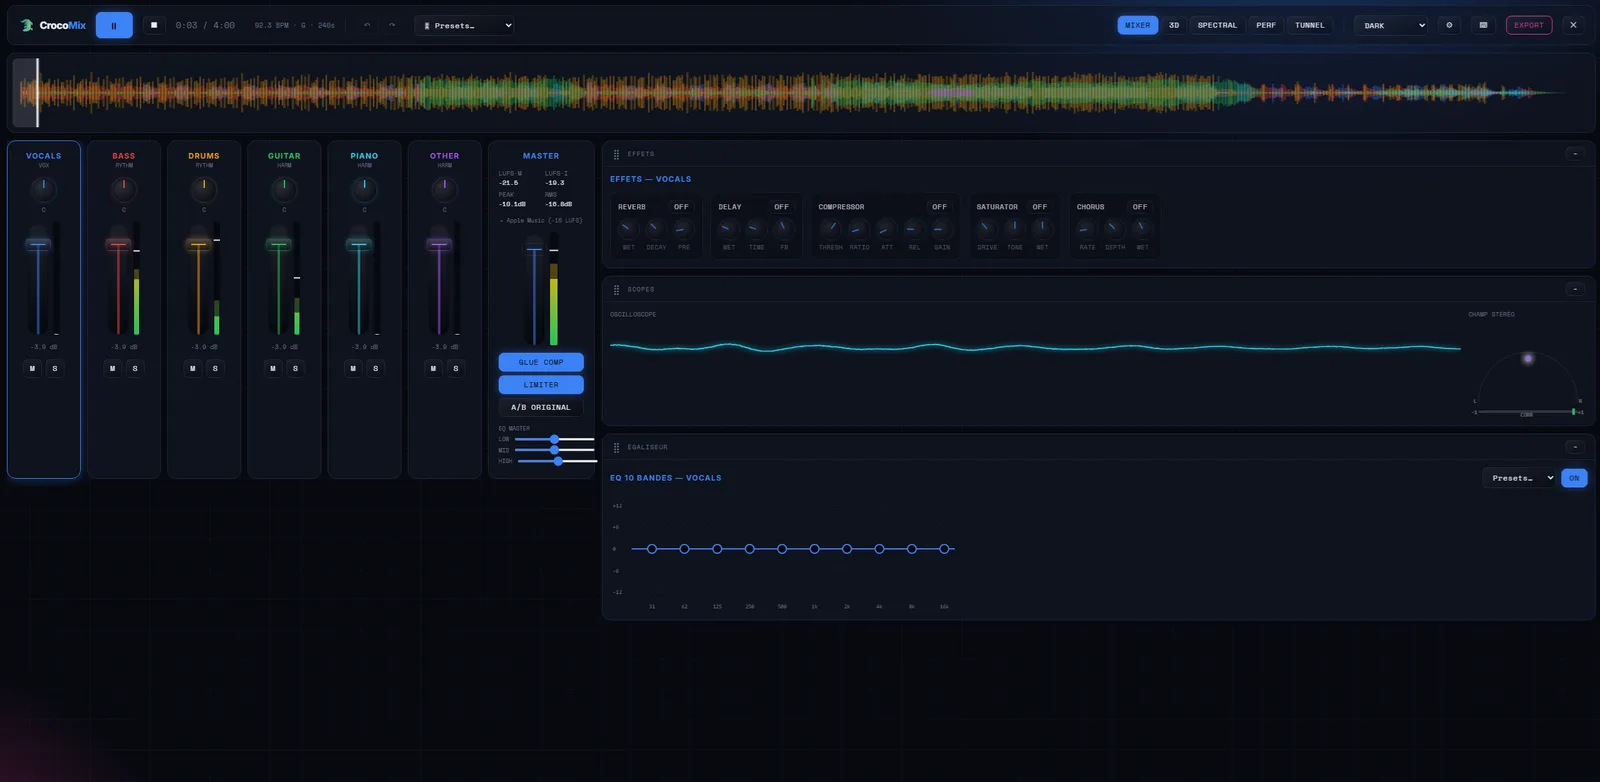
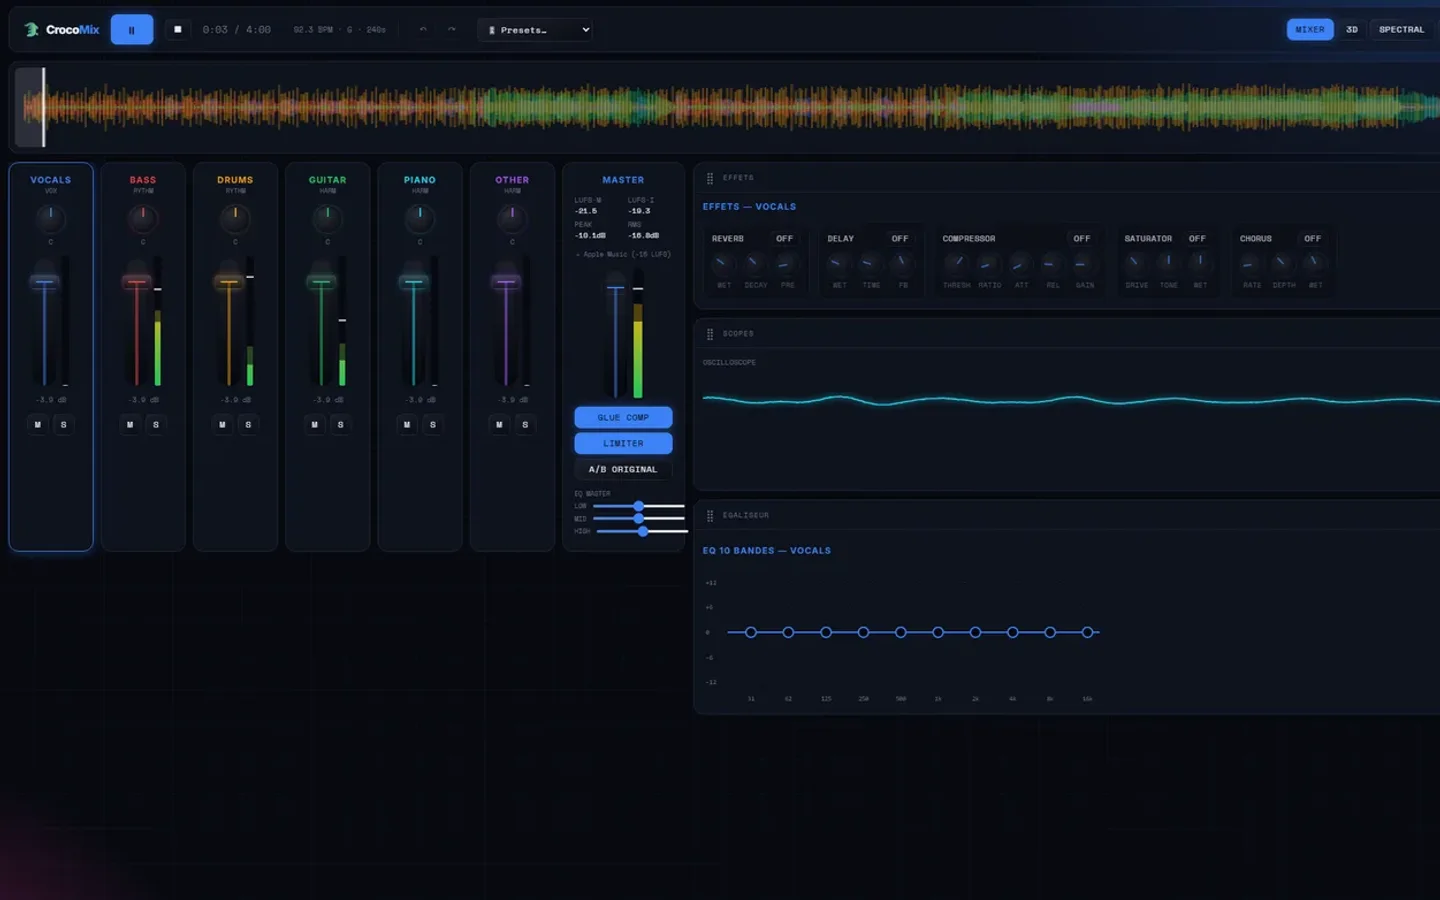
Présente sept projets avec une description simple
- ADPVO présentée comme l'amicale des PME du Val-d'Oise, nouvelle capture.
- Retire Atelier ; ajoute Ombres & Reliques, l'échiquier autonome,
  Synapse et Pépites.
- Chaque projet : une description et quelques mots-clés à la place des
  trois repères. Captures recadrées en 16:10 pour les animations.

Claude-Session: https://claude.ai/code/session_01NyJxJe5EXggCDnBLd3Vhvi

diff --git a/src/data/site.ts b/src/data/site.ts
@@ -32,19 +32,26 @@ export interface Expertise {
   statut?: string;
 }
 
+/** Animation jouée au survol de la carte projet (voir src/components/AnimationProjet.astro). */
+export type AnimationProjet = 'adpvo' | 'crocomix' | 'infohub' | 'jeu' | 'echiquier' | 'synapse' | 'pepites';
+
 export interface Projet {
   nom: string;
-  /** Pour qui : le client, ou « Projet GLM » pour un outil développé en interne. */
+  /** Pour qui : le client, « Projet GLM » pour un outil interne, « Projet R&D »… */
   client: string;
   calibre: CalibreId;
-  /** Le problème de départ, en une phrase. */
-  besoin: string;
-  /** Ce que fait l’outil : sa capacité phare. */
-  capacite: string;
-  /** Ce que la personne y gagne (temps, argent, productivité…). */
-  gain: string;
-  /** Capture d’écran déposée dans src/assets/projets/ (format paysage). */
+  /** Présentation du projet en deux ou trois phrases. */
+  description: string;
+  /** Ce qu’on a construit, en quelques mots-clés courts. */
+  points: string[];
+  /**
+   * Capture d’écran déposée dans src/assets/projets/, recadrée au format 16:10 (1440 × 900) :
+   * les animations sont calées sur ce cadrage. Sans image, l’animation sert d’illustration.
+   */
   image?: { fichier: string; alt: string };
+  /** Vidéo courte (muette, en boucle) déposée dans public/videos/ : <nom>.webm et <nom>.mp4. */
+  video?: string;
+  animation?: AnimationProjet;
   lien?: { url: string; libelle: string };
   /** Projet d’exemple : la carte affiche la mention « Exemple ». À retirer une fois le vrai projet saisi. */
   exemple?: boolean;
@@ -207,72 +214,122 @@ export const expertises: Expertise[] = [
 /* Projets                                                            */
 /* ------------------------------------------------------------------ */
 
-// Projets décrits par les associés (message vocal du 23 octobre 2026), captures du dossier Drive « Site / Projets ».
+// Projets décrits par les associés, captures du dossier Drive « Site / Projets ».
 export const projets: Projet[] = [
   {
-    nom: 'ADPVO, le site de l’Amicale des Policiers du Val-d’Oise',
-    client: 'Amicale des Policiers du Val-d’Oise',
+    nom: 'ADPVO, l’amicale des PME du Val-d’Oise',
+    client: 'Amicale des PME du Val-d’Oise',
     calibre: 'web',
-    besoin: 'Donner à l’Amicale un vrai site de CSE, que le bureau fait vivre seul.',
-    capacite:
-      'Billetterie avec commande en ligne, adhésion via HelloAsso, annonces entre collègues, posts « À la une » et espace bureau complet.',
-    gain: 'Le bureau publie offres et actualités lui-même et reçoit les commandes déjà triées, export compris.',
+    description:
+      'Un projet complet, de l’étude à la mise en ligne. Les adhérents achètent leurs billets et profitent des offres partenaires ; le bureau publie, suit les commandes et gère la billetterie depuis son espace.',
+    points: [
+      'Étude et conception',
+      'Parcours d’achat de billets',
+      'Paiement en ligne',
+      'Espace administrateur',
+      'Publication des offres',
+      'Commandes et billetterie',
+      'Génération des fichiers',
+    ],
     image: {
       fichier: 'adpvo.webp',
-      alt: 'Page d’accueil du site de l’ADPVO : bandeau bleu, blanc, rouge et catégories d’offres.',
+      alt: 'Page d’accueil du site de l’ADPVO : bandeau bleu, blanc, rouge, catégories d’offres et offres à la une.',
     },
-    lien: { url: 'https://adpvo.fr', libelle: 'Voir le site' },
-  },
-  {
-    nom: 'Atelier, l’organisateur de projets',
-    client: 'Projet GLM',
-    calibre: 'web',
-    besoin: 'Suivre plusieurs projets, leurs tâches et le temps passé, sans jongler entre plusieurs outils.',
-    capacite:
-      'Projets, tâches épinglées, réunions, suivi des heures, tableau de bord, boîte de réception et calendrier au même endroit.',
-    gain: 'Moins de temps à s’organiser, plus à produire : on s’en sert nous-mêmes au quotidien.',
-    image: {
-      fichier: 'atelier.webp',
-      alt: 'Écran d’Atelier : liste de tâches d’un projet, avec dates, étiquettes et tâches épinglées.',
-    },
+    animation: 'adpvo',
   },
   {
     nom: 'CrocoMix, le studio de remix',
     client: 'Projet GLM',
     calibre: 'ia',
-    besoin: 'Retravailler un morceau quand on n’a que le fichier final.',
-    capacite:
-      'L’IA sépare la voix, la basse, la batterie, la guitare et le piano. Chaque piste se règle, se coupe et reçoit ses propres effets.',
-    gain: 'Remixer, s’entraîner sur un instrument ou enregistrer sa propre partie, directement dans le navigateur.',
+    description:
+      'Nous avons développé un algorithme qui sépare la voix, les instruments et chaque son d’un morceau pour isoler chaque piste audio. Nous avons aussi dessiné le logiciel et l’avons mis en production : on remixe, on crée du contenu, directement dans le navigateur.',
+    points: [
+      'Séparation des pistes par IA',
+      'Une piste par instrument',
+      'Design du logiciel',
+      'Mise en production',
+    ],
     image: {
       fichier: 'crocomix.webp',
-      alt: 'Console de CrocoMix : une piste par instrument, effets, oscilloscope et égaliseur.',
+      alt: 'Console de CrocoMix : forme d’onde du morceau, une tranche par instrument, effets et oscilloscope.',
     },
+    animation: 'crocomix',
   },
   {
-    nom: 'InfoHub, le tableau de bord personnel',
+    nom: 'InfoHub, le tableau de bord de la journée',
     client: 'Projet GLM',
     calibre: 'ia',
-    besoin: 'Avoir l’essentiel de sa journée sur un seul écran.',
-    capacite:
-      'Météo, marchés, actualités, sport, musique et état de l’ordinateur, alimentés en direct par de nombreuses sources de données.',
-    gain: 'Un coup d’œil au lieu de passer d’un site à l’autre.',
+    description:
+      'Un écran qui rassemble l’actualité financière et géopolitique, la météo, les tendances des réseaux sociaux, la playlist du moment et les résultats sportifs. Pensé pour l’écran de la maison ou l’ordinateur de bord d’une voiture : le récapitulatif de sa journée en un coup d’œil.',
+    points: [
+      'Finance et géopolitique',
+      'Météo',
+      'Tendances sociales',
+      'Musique',
+      'Sport',
+      'Données en direct',
+    ],
     image: {
       fichier: 'infohub.webp',
-      alt: 'Tableau de bord InfoHub au style néon : météo, crypto, actualités, musique et sport.',
+      alt: 'Tableau de bord InfoHub au style néon : météo, crypto, actualités, musique, sport et suivi de l’ISS.',
     },
+    animation: 'infohub',
   },
   {
-    nom: 'Un jeu roguelike dans le navigateur',
+    nom: 'Ombres & Reliques, un jeu vidéo dans le navigateur',
     client: 'Projet GLM',
     calibre: 'web',
-    besoin: 'Prouver qu’un jeu complet peut tourner sans rien installer.',
-    capacite: 'Cinq classes, plus de neuf niveaux, un mode infini et de nombreux objets à collectionner.',
-    gain: 'On ouvre un lien et on joue, sur n’importe quel ordinateur.',
+    description:
+      'Nous avons créé un jeu vidéo qui tourne directement dans le navigateur, de la conception graphique au gameplay, en passant par les mondes et les objets. Il est en ligne et 100 % fonctionnel.',
+    points: ['Conception graphique', 'Gameplay', 'Mondes et objets', 'En production'],
     image: {
-      fichier: 'roguelike.webp',
-      alt: 'Partie du roguelike : le héros affronte des monstres dans une salle de donjon.',
+      fichier: 'ombres-reliques.webp',
+      alt: 'Partie d’Ombres & Reliques : le héros affronte une horde de goules dans une salle du donjon.',
     },
+    video: 'ombres-reliques',
+    animation: 'jeu',
+    lien: { url: 'https://krokow.github.io/Ombres-Reliques', libelle: 'Jouer' },
+  },
+  {
+    nom: 'L’échiquier autonome',
+    client: 'Projet R&D',
+    calibre: 'robotique',
+    description:
+      'Une intelligence artificielle qui joue aux échecs, et l’échiquier qui va avec. Nous avons conçu et fabriqué toute son architecture : un chariot aimanté sur deux axes déplace les pièces, des LED indiquent les coups, et l’on joue à la voix contre notre moteur ou contre Stockfish.',
+    points: ['Moteur d’échecs (Minimax)', 'Commande vocale', 'Mécanique sur deux axes', 'Éclairage LED'],
+    animation: 'echiquier',
+  },
+  {
+    nom: 'Synapse, le home cinéma personnalisé',
+    client: 'Projet GLM',
+    calibre: 'web',
+    description:
+      'Nous avons construit une grande base de films qui rassemble les films disponibles et les centralise dans un home cinéma : bandes-annonces, où les regarder, notes et recommandations personnalisées. Toute l’interface graphique est faite maison.',
+    points: ['Base de films', 'Recommandations', 'Application installable', 'Design de l’interface'],
+    image: {
+      fichier: 'synapse.webp',
+      alt: 'Accueil de Synapse au style cyberpunk : film à la une et rangée des tendances de la semaine.',
+    },
+    animation: 'synapse',
+    lien: { url: 'https://krokow.github.io/synapse/', libelle: 'Voir l’application' },
+  },
+  {
+    nom: 'Pépites, l’analyse de portefeuille',
+    client: 'Projet GLM',
+    calibre: 'ia',
+    description:
+      'Un algorithme qui analyse l’actualité et un portefeuille financier, puis propose des signaux d’achat ou de vente sur une sélection d’actions définie à l’avance. C’est un outil d’aide à la décision, pas un conseil en investissement.',
+    points: [
+      'Analyse de l’actualité',
+      'Suivi de portefeuille',
+      'Indicateurs techniques',
+      'Signaux d’achat et de vente',
+    ],
+    image: {
+      fichier: 'pepites.webp',
+      alt: 'Écran de Pépites : graphique en chandeliers d’une action avec moyennes mobiles, volumes et RSI.',
+    },
+    animation: 'pepites',
   },
 ];
 
